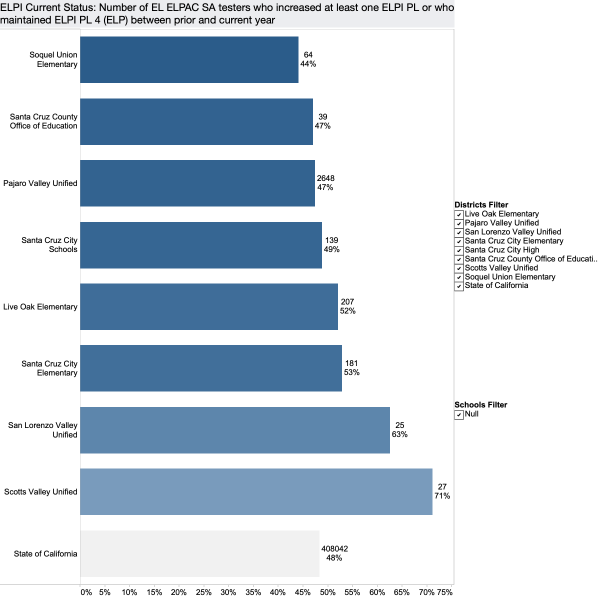
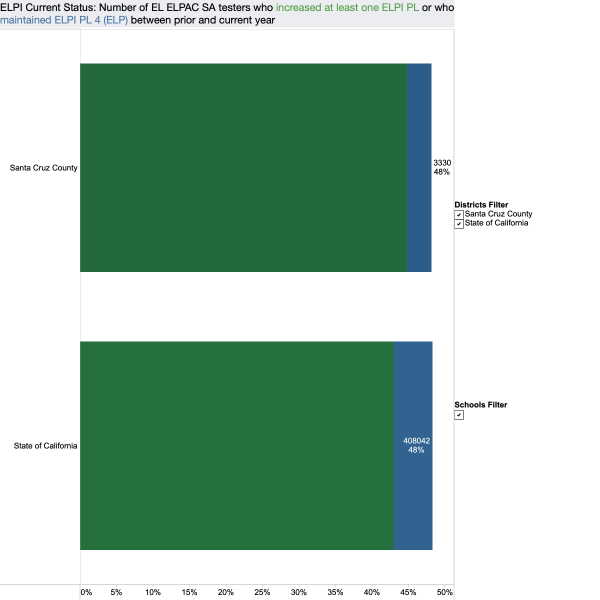
Changed data governace to be enforced within tableauViz

diff --git a/imports/ui/reusable/TableauViz.jsx b/imports/ui/reusable/TableauViz.jsx
@@ -13,6 +13,8 @@ class TableauViz extends Component {
     this.state = {
       inview: true,
     };
+
+    this.handleGovernance = this.handleGovernance.bind(this);
   }
 
   render() {
@@ -35,6 +37,7 @@ class TableauViz extends Component {
       device: 'desktop',
       width: '100%',
       height: '100%',
+      onFirstInteractive: this.handleGovernance,
     }
     options = Object.assign({}, options, this.props.options);
     this.viz = new tableauSoftware.Viz(vizContainer, url, options);
@@ -47,19 +50,39 @@ class TableauViz extends Component {
    // });
   }
   
-  handleClick(event) {
-    event.preventDefault();
+  handleGovernance() {
+    let viz = this.viz;
+    let worksheets;
+    if (viz.getWorkbook().getActiveSheet().getSheetType() == "worksheet"){
+      worksheets = [viz.getWorkbook().getActiveSheet()]
+    } else {
+      worksheets = viz.getWorkbook().getActiveSheet().getWorksheets();
+    }
+    let user = this.props.user;
+    if (user && user.verified_email) {
+      let userId = this.props.user._id;
+      let roles = Roles.getRolesForUser(userId);
+      if (roles.includes('All') || roles.includes('Admin')) {
+	worksheets.forEach((sheet)=>{sheet.applyFilterAsync("Governance", "",  tableauSoftware.FilterUpdateType.ALL);})
+      } else {
+	worksheets.forEach((sheet)=>{sheet.applyFilterAsync("Governance", roles,  tableauSoftware.FilterUpdateType.ADD);})
+      }
+    } else {
+      worksheets.forEach((sheet)=>{sheet.applyFilterAsync("Governance", ["State", "County"],  tableauSoftware.FilterUpdateType.REPLACE);})
+    }
   }
-  
+
   componentDidMount(){
     this.renderTableauViz(this.props.url);
     $('.tab-vizItems').css("display","none");
+    this.viz.addEventListener("parametervaluechange", this.handleGovernance)
     //this.updateDimensions();
     //window.addEventListener("resize", this.updateDimensions.bind(this));
   }
   
   componentDidUpdate(){
     $('.tab-vizItems').css("display","none");
+    this.handleGovernance();
     //console.log(this.state.width, this.state.height);
    // console.log($('#vizContainer').outerWidth(), $('#vizContainer').outerHeight()) ;  
   }

diff --git a/imports/data/visualizations_data.js b/imports/data/visualizations_data.js
@@ -40,7 +40,9 @@ export default visualizations_data = [
 		short_title:'CHKS Indicators',
 		caption: 'Sample caption',
 		vizurl:"https://public.tableau.com/views/ChksTrends_v0_1/IndicatorsDashboard",
-		options:{},
+		options:{
+		     "Governance":["County"]
+		},
 		image:"CHKSIndicatorsDash.png"
 	    },
 	    {
@@ -54,24 +56,24 @@ export default visualizations_data = [
 	    }   
 	]
     },
-    // {
-    // 	category_key: 'ELPAC-ELPI',
-    // 	category_title: 'English Language Proficiency Assessments for California (ELPAC)',
-    // 	category_short_title: 'ELPAC/ELPI',
-    // 	vizs:[
-    // 	    {
-    // 		key:"ELPI",
-    // 		title:'English Learner Progress Indicator (ELPI) - Current Status',
-    // 		short_title:'ELPI Status',
-    // 		caption: 'Sample caption',
-    // 		vizurl:"https://public.tableau.com/views/ELPI/ELPICurrentStatus",
-    // 		options:{
-    // 		    "Governance":["State","County"]
-    // 		},
-    // 		image:"ELPIDash.png"
-    // 	    }
-    // 	]
-    // },
+    {
+    	category_key: 'ELPAC-ELPI',
+    	category_title: 'English Language Proficiency Assessments for California (ELPAC)',
+    	category_short_title: 'ELPAC/ELPI',
+    	vizs:[
+    	    {
+    		key:"ELPI",
+    		title:'English Learner Progress Indicator (ELPI) - Current Status',
+    		short_title:'ELPI Status',
+    		caption: 'Sample caption',
+    		vizurl:"https://public.tableau.com/views/ELPI/ELPICurrentStatus",
+    		options:{
+    		    "Governance":["State","County"]
+    		},
+    		image:"ELPIDash.png"
+    	    }
+    	]
+    },
     // {
     // 	category_key: 'MathMindset',
     // 	category_title: 'Math Mindset',

diff --git a/imports/startup/client/accounts-config.js b/imports/startup/client/accounts-config.js
@@ -1,28 +1,6 @@
 //accounts-config.js
 // User accounts configuration
 
-var VizsAddData = (user)=>{
-    let vizs = tableauSoftware.VizManager.getVizs();
-    let userId = Meteor.userId;
-    let roles = Roles.getRolesForUser(userId);
-    if (roles.includes('All') || roles.includes('Admin')) {
-	vizs.forEach((viz)=>{
-	    viz.getWorkbook().getActiveSheet().getWorksheets()[0].applyFilterAsync("Governance", "",  tableauSoftware.FilterUpdateType.ALL);
-	});
-    } else {
-	vizs.forEach((viz)=>{
-	    viz.getWorkbook().getActiveSheet().getWorksheets()[0].applyFilterAsync("Governance", roles,  tableau.FilterUpdateType.ADD);
-    	});
-    }
-};
-
-var VizsRemoveData = () =>{
-    let vizs = tableauSoftware.VizManager.getVizs();
-    vizs.forEach((viz)=>{
-	viz.getWorkbook().getActiveSheet().getWorksheets()[0].applyFilterAsync("Governance", ["County"],  tableauSoftware.FilterUpdateType.REPLACE);
-    });	
-};
-
 
 var mySubmitFunc = (error, state)=>{
     if (!error) {
@@ -30,9 +8,6 @@ var mySubmitFunc = (error, state)=>{
 	    // Successfully signed in
 	    console.log('User signed in');
 	    console.log(Meteor.user());
-	    if(Meteor.user().verified_email){
-		VizsAddData(Meteor.user());	    
-	    }
 	}
 	if (state === "signUp") {
 	    // Successfully registered
@@ -42,7 +17,7 @@ var mySubmitFunc = (error, state)=>{
 };
 
 var myLogoutFunc = ()=>{
-    VizsRemoveData();
+     console.log('User signed out');
 };
 
 

diff --git a/imports/ui/hocs/HighLights.jsx b/imports/ui/hocs/HighLights.jsx
@@ -116,15 +116,7 @@ class HighLights extends Component {
       highlights.map( (hilight, index) => {
 	let active = (index == 0) ? 'active' : ''
 	let vizOptions = hilight.options;
-	if (Meteor.user()  && Meteor.user().verified_email){
-	  let userId = Meteor.userId;
-	  let roles = Roles.getRolesForUser(userId);
-	  if (roles.includes('All') || roles.includes('Admin')){
-	    if (vizOptions.Governance) vizOptions.Governance = "";
-	  } else {
-	    if (vizOptions.Governance) roles.forEach((role)=>{vizOptions.Governance.push(role)})
-	  }   
-	}
+
 	return(
 	  <div key={index} className={"carousel-item w-100 h-100 "+active} data-interval="10000">
 	    <button id={"exploreMore"+hilight.key} className="btn btn-primary btn-sm text-center text-wrap" style={exploreMoreStyle} data-vizkey={hilight.key} data-fulldashkey={hilight.full_dashboard_key} data-toggle="tooltip" data-placement="top"  title="Explore the full dashboard" onClick={this.switchToDashboard}><span><ArrowForward size="30"/></span></button>

diff --git a/imports/ui/hocs/Visualizations.jsx b/imports/ui/hocs/Visualizations.jsx
@@ -119,15 +119,7 @@ class Visualizations extends Component {
     let vizOptions = (selectedViz) ? selectedViz.options : null ;
     let viz = null
     if (vizUrl){
-      if (Meteor.user() && Meteor.user().verified_email){
-	let userId = Meteor.userId;
-	let roles = Roles.getRolesForUser(userId);
-	if (roles.includes('All') || roles.includes('Admin')){
-	  if (vizOptions.Governance) vizOptions.Governance = ""
-	} else {
-	  if (vizOptions.Governance) roles.forEach((role)=>{vizOptions.Governance.push(role)})
-	}   
-      }
+      
       viz = (<TableauViz vizId='VisualizationsModalViz' url={vizUrl} options={vizOptions} />)
     }
     
@@ -173,7 +165,7 @@ class Visualizations extends Component {
   
   componentWillUnmount() {
     window.removeEventListener("resize", this.updateDimensions.bind(this));
-    this.closeViz();
+    //this.closeViz();
   }
   
 }
